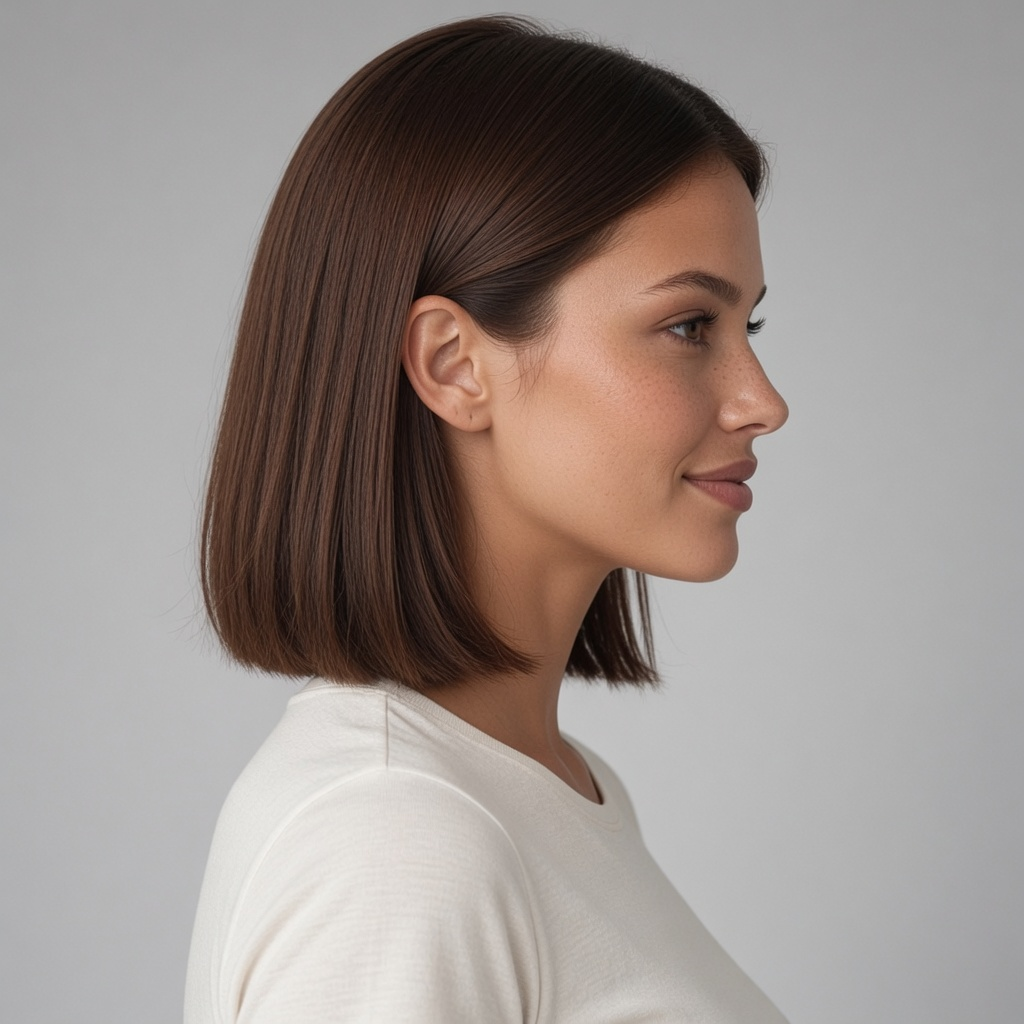
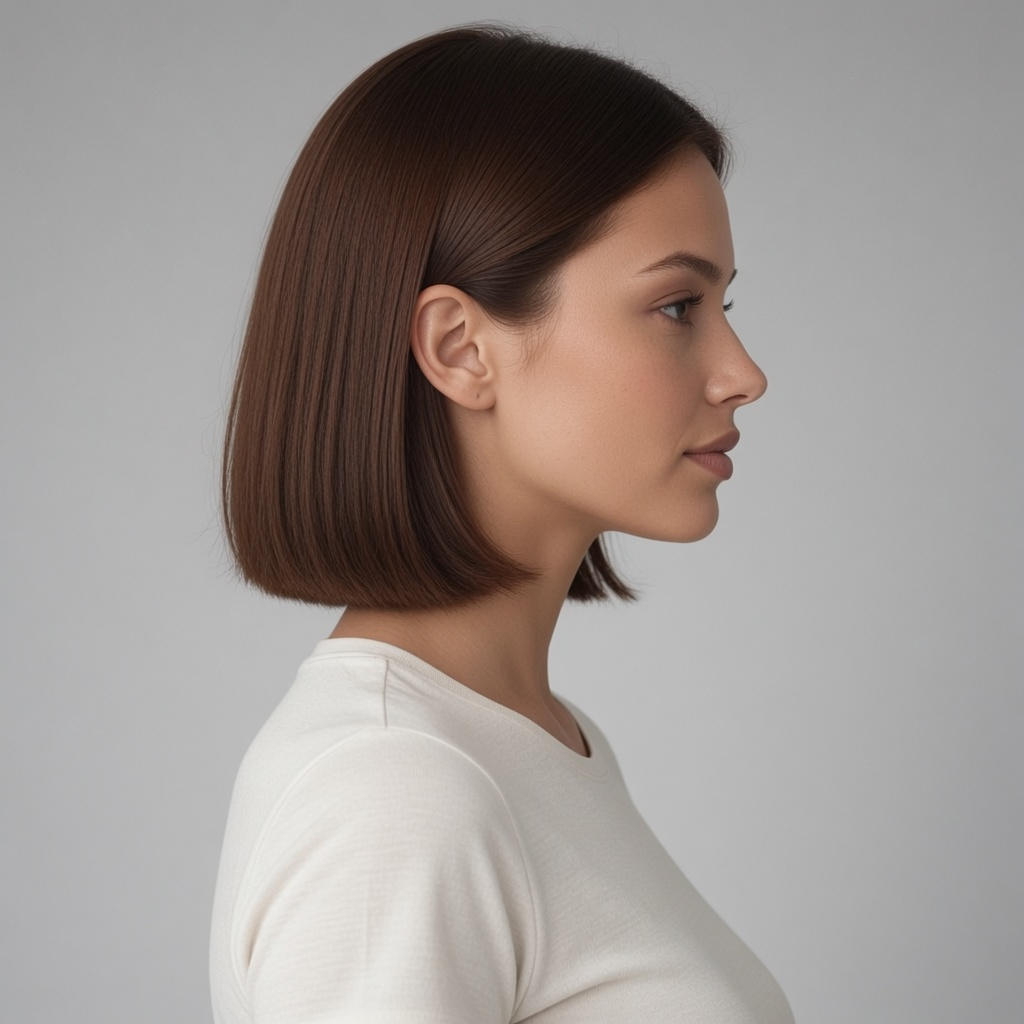
feat: fairer Persona B skin and a slimmer fitted figure
Same face, resting expression. Body and angles are edits of that portrait so the fair skin matches.

diff --git a/latest_sheet.py b/latest_sheet.py
@@ -21,20 +21,20 @@ CARD = (255, 252, 247)
 FONT = '/usr/share/fonts/truetype/dejavu/DejaVuSans.ttf'
 FONT_BOLD = '/usr/share/fonts/truetype/dejavu/DejaVuSans-Bold.ttf'
 SWATCHES = (
-    ('face_front.jpg', (0.48, 0.38), 'Skin'),
-    ('face_front.jpg', (0.32, 0.32), 'Hair'),
+    ('face_front.jpg', (0.44, 0.46), 'Skin'),
+    ('face_front.jpg', (0.30, 0.28), 'Hair'),
     ('face_front.jpg', (0.38, 0.42), 'Iris'),
-    ('face_front.jpg', (0.48, 0.90), 'Ivory'),
-    ('body_front.jpg', (0.56, 0.68), 'Charcoal'),
-    ('body_front.jpg', (0.52, 0.93), 'Flats'),
+    ('face_front.jpg', (0.50, 0.88), 'Ivory'),
+    ('body_front.jpg', (0.46, 0.68), 'Charcoal'),
+    ('body_front.jpg', (0.47, 0.88), 'Flats'),
     ('face_front.jpg', (0.08, 0.08), 'Studio'),
 )
 LOCKS = (
-    '21-year-old adult catwalk model',
-    'Center-part chestnut bob, warm brown eyes, light freckles',
-    'Slight smile, lifted nose, direct gaze',
-    'Ivory crew tee, charcoal trousers, dark closed flats',
-    'No jewelry. Light gray studio. Noticeable hourglass.',
+    '21-year-old adult',
+    'Fair skin, chestnut bob, warm brown eyes, light freckles',
+    'Resting face, lifted nose, same features',
+    'Fitted ivory tee, fitted charcoal trousers, dark flats',
+    'Slim figure. Natural bust, thinner waist, wider hips.',
 )
 
 
@@ -131,8 +131,8 @@ def render_latest_sheet(folder):
     draw.text((28, 24), 'PERSONA B', fill=INK, font=title)
     status = 'LATEST   ·   NOT LOCKED'
     draw.text((WIDTH - 28 - draw.textlength(status, font=eyebrow), 32), status, fill=MUTED, font=eyebrow)
-    draw.text((28, 58), 'Sensual, alluring, flirty, gorgeous, stunning, elegant', fill=MUTED, font=sub)
-    draw.text((28, 78), 'Catwalk model, slight smile, lifted nose, hourglass', fill=MUTED, font=sub)
+    draw.text((28, 58), 'Fair skin, attractive, beautiful, gorgeous, elegant', fill=MUTED, font=sub)
+    draw.text((28, 78), 'Slim figure, natural bust, thinner waist, wider hips', fill=MUTED, font=sub)
     draw.line((28, 104, WIDTH - 28, 104), fill=RULE, width=1)
 
     body_fill = _sample(sources['body_front.jpg'], (0.06, 0.06))
@@ -172,7 +172,7 @@ def render_latest_sheet(folder):
         color = _sample(sources[name], xy)
         draw.rectangle((cursor, chip_y, cursor + chip, chip_y + chip), fill=color, outline=RULE)
         draw.text((cursor + chip + 8, chip_y + 1), label, fill=MUTED, font=label_font)
-    note = 'Angles follow the front face. The body matches by description, not as a pixel lock.'
+    note = 'Body and angles are edits of the front face, so the skin tone matches.'
     draw.text((582, 1012), note, fill=MUTED, font=eyebrow)
     buffer = io.BytesIO()
     sheet.save(buffer, format='JPEG', quality=92, optimize=True)
